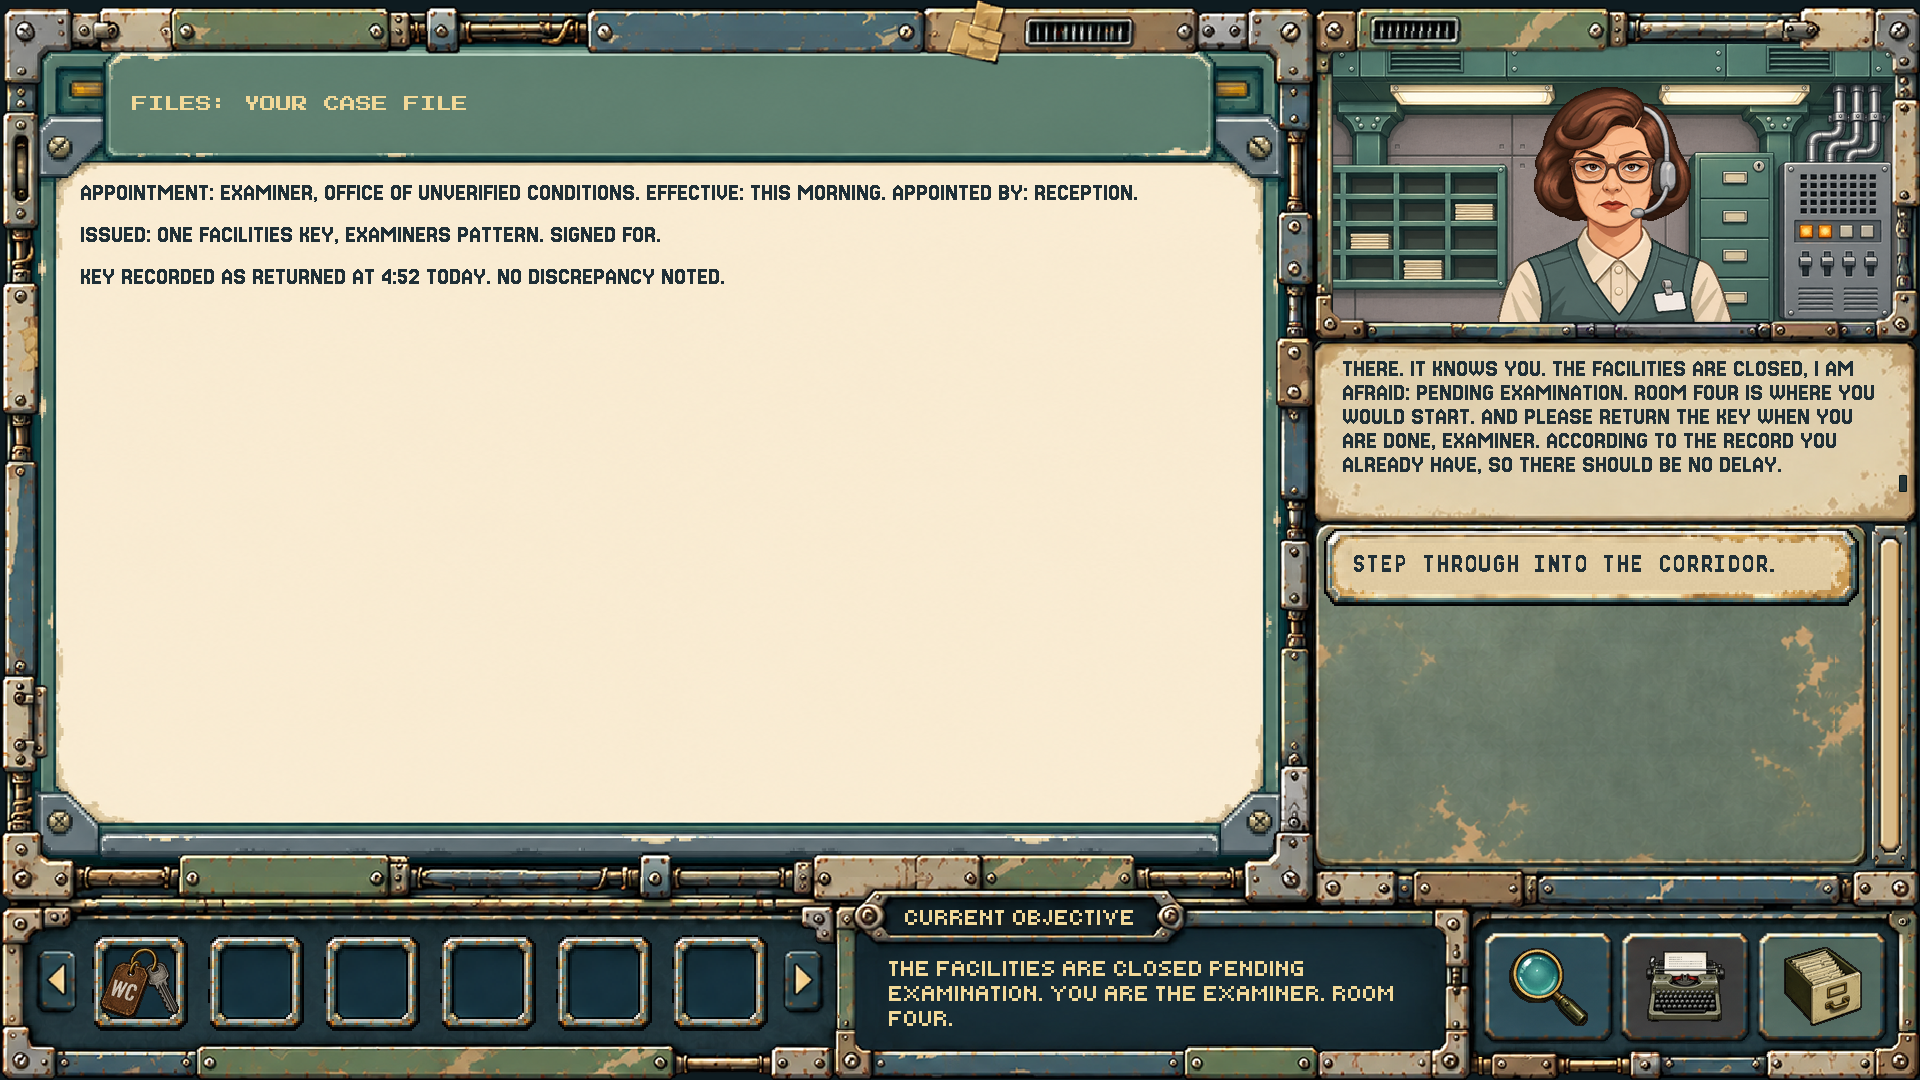
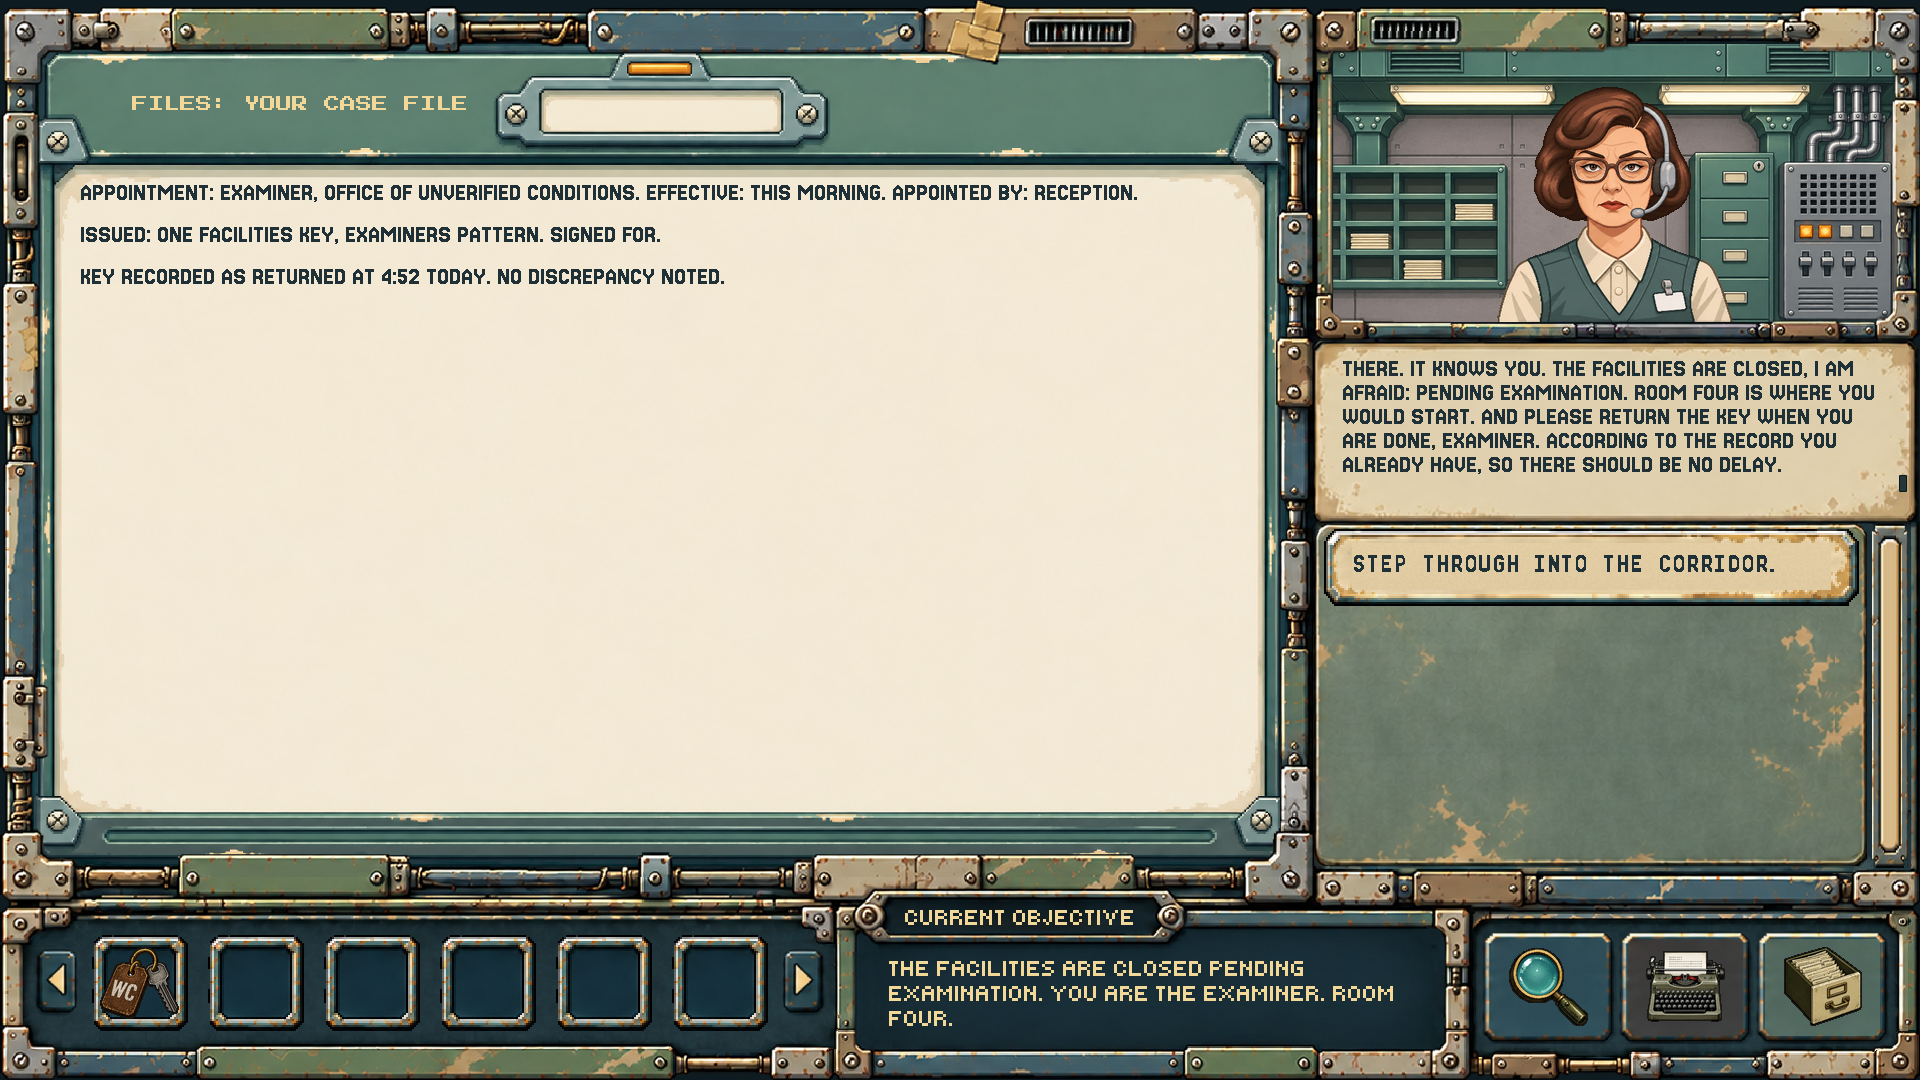
Record docs/63 QA results (lab 85/85, game 445/445, route 38/38); QA outputs

Changed region(s): [[0.0, 0.0306, 0.6875, 0.825]]

diff --git a/docs/62_M2_RECEPTION_POLISH_LAB.md b/docs/62_M2_RECEPTION_POLISH_LAB.md
@@ -252,7 +252,7 @@ The lab page saves the changes, the selected state, the view, fit and toggles in
 
 ### Lab QA
 
-`NODE_PATH="$(npm root -g)" node tools/m2-reception-polish-lab/qa/run_qa.js` passes **67/67** in Chromium 147 and Firefox 148 (static 5, Chromium 31, Firefox 31). Results are in `tools/m2-reception-polish-lab/qa/qa_results.json`.
+`NODE_PATH="$(npm root -g)" node tools/m2-reception-polish-lab/qa/run_qa.js` passes **85/85** in Chromium 147 and Firefox 148 (static 5, Chromium 40, Firefox 40). The run includes the live-value, NOTES v2 and FILES-panel checks from docs/63. Results are in `tools/m2-reception-polish-lab/qa/qa_results.json`.
 
 - **Static checks:**
   - the lab folder holds no images;
@@ -283,6 +283,12 @@ The lab page saves the changes, the selected state, the view, fit and toggles in
 - **Import:**
   - IMPORT round-trips an export;
   - IMPORT rejects unknown keys, non-integers, out-of-range spatial and timing values, a wrong schema, string values and malformed JSON, and a rejected import changes nothing.
+- **Live values (docs/63):**
+  - a slider drag moves the stage step by step, with no reload;
+  - a live change keeps NOTES open on the same lines and scroll;
+  - NOTES v2 switches live in the lab frame only and is exported;
+  - FILES shows its own panel;
+  - after live changes and a reset, PRODUCTION and LAB are pixel-identical again.
 - **Timing:** a lab tooltip delay applies in the lab frame (hidden at 120 ms, shown after 400 ms).
 - **Errors:** there are no console or page errors.
 
@@ -293,7 +299,7 @@ Lab screenshots (Chromium): `tools/m2-reception-polish-lab/qa/screenshots/lab_ov
 The checks were run on the final commit:
 
 - `node game/qa/validate_route.js`: **38/38**.
-- `game/qa/run_qa.js`: **431/431** (static 35/35, Chromium 198/198, Firefox 198/198).
+- `game/qa/run_qa.js`: **445/445** (static 37/37, Chromium 204/204, Firefox 204/204), including the separate FILES panel (docs/63). Before docs/63 it was 431/431.
 
 The production values are unchanged (§3).
 
